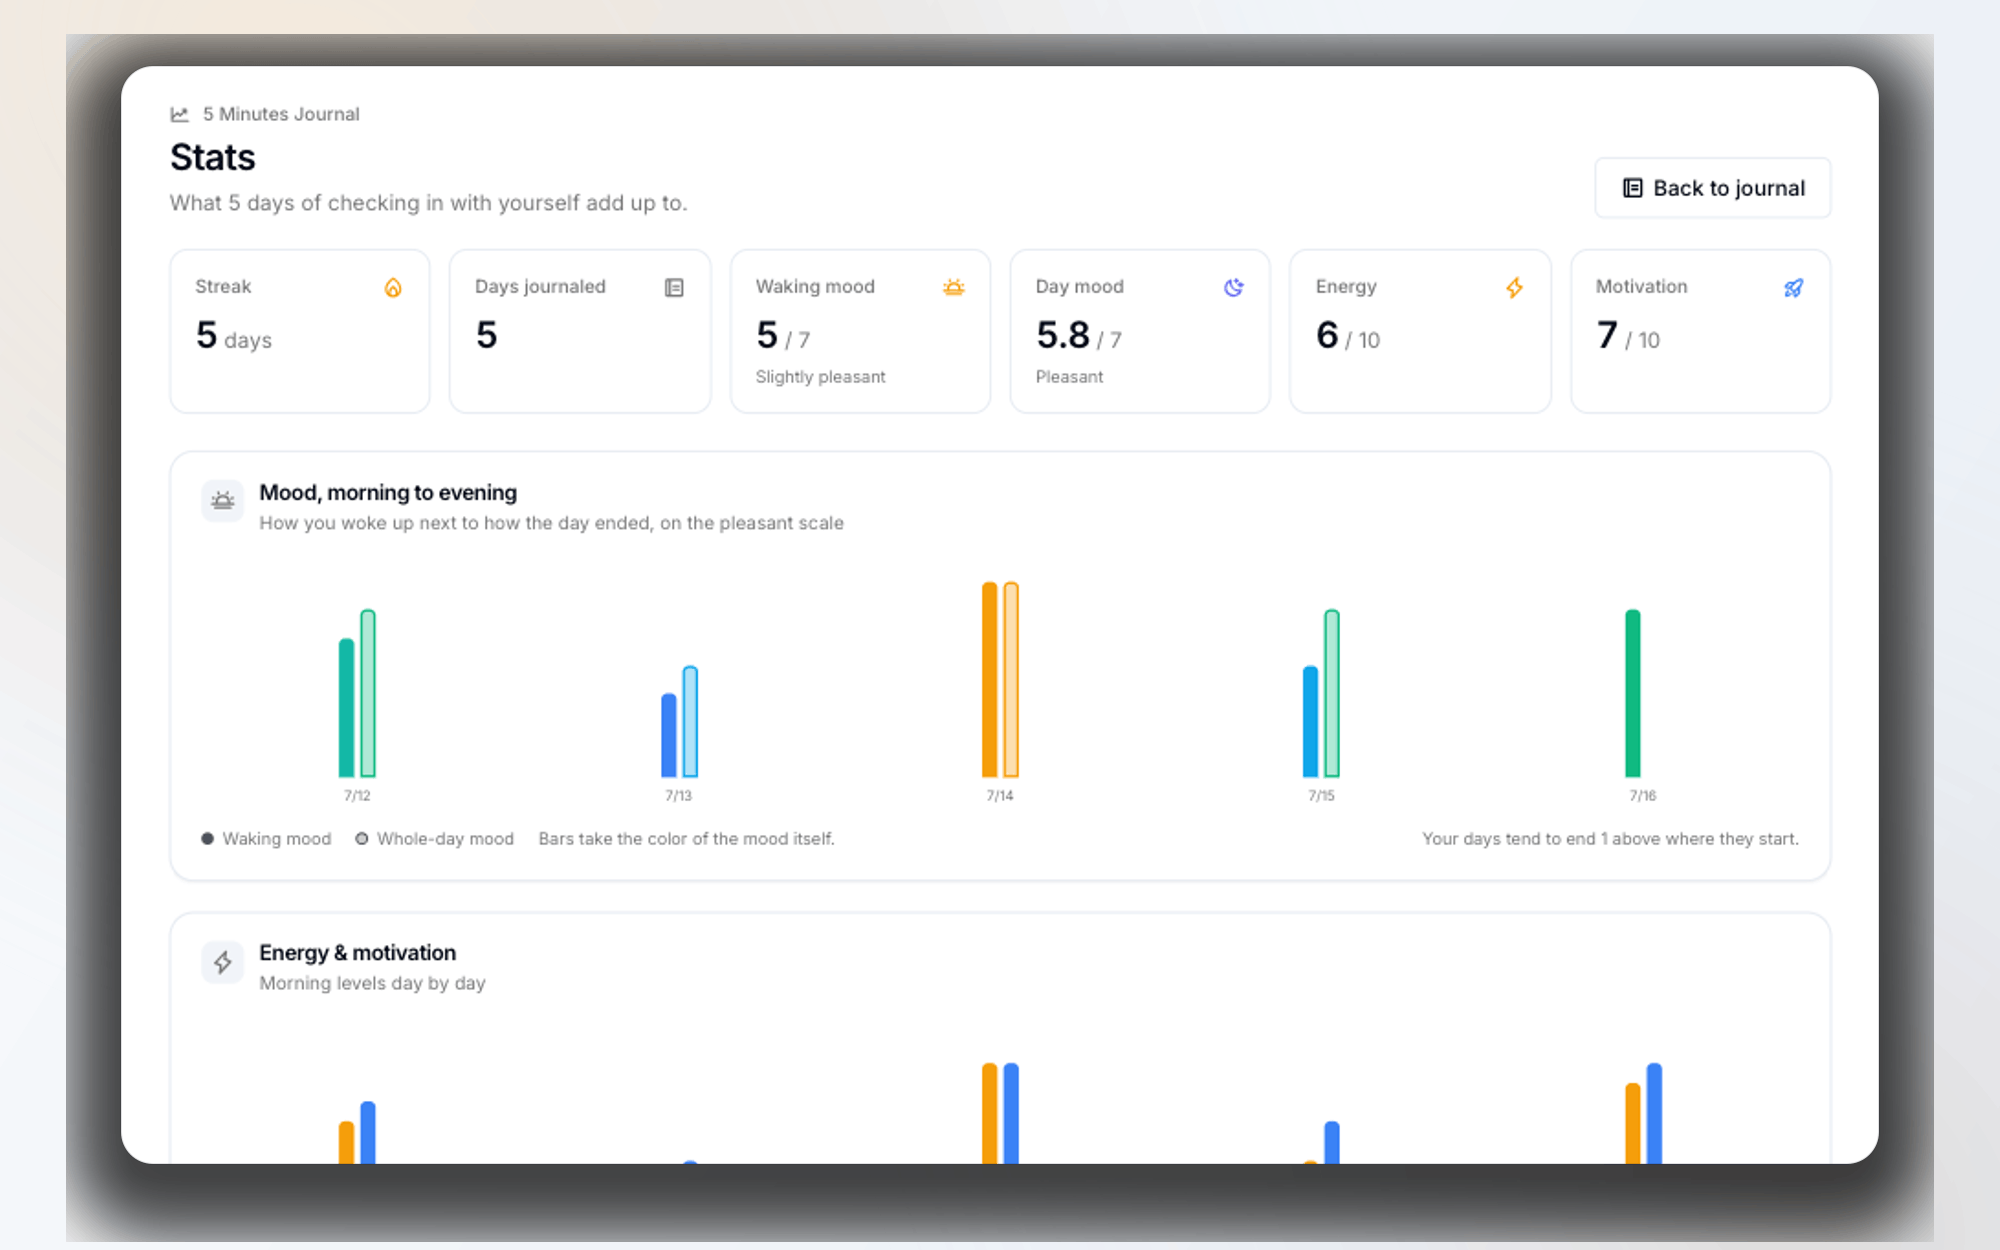
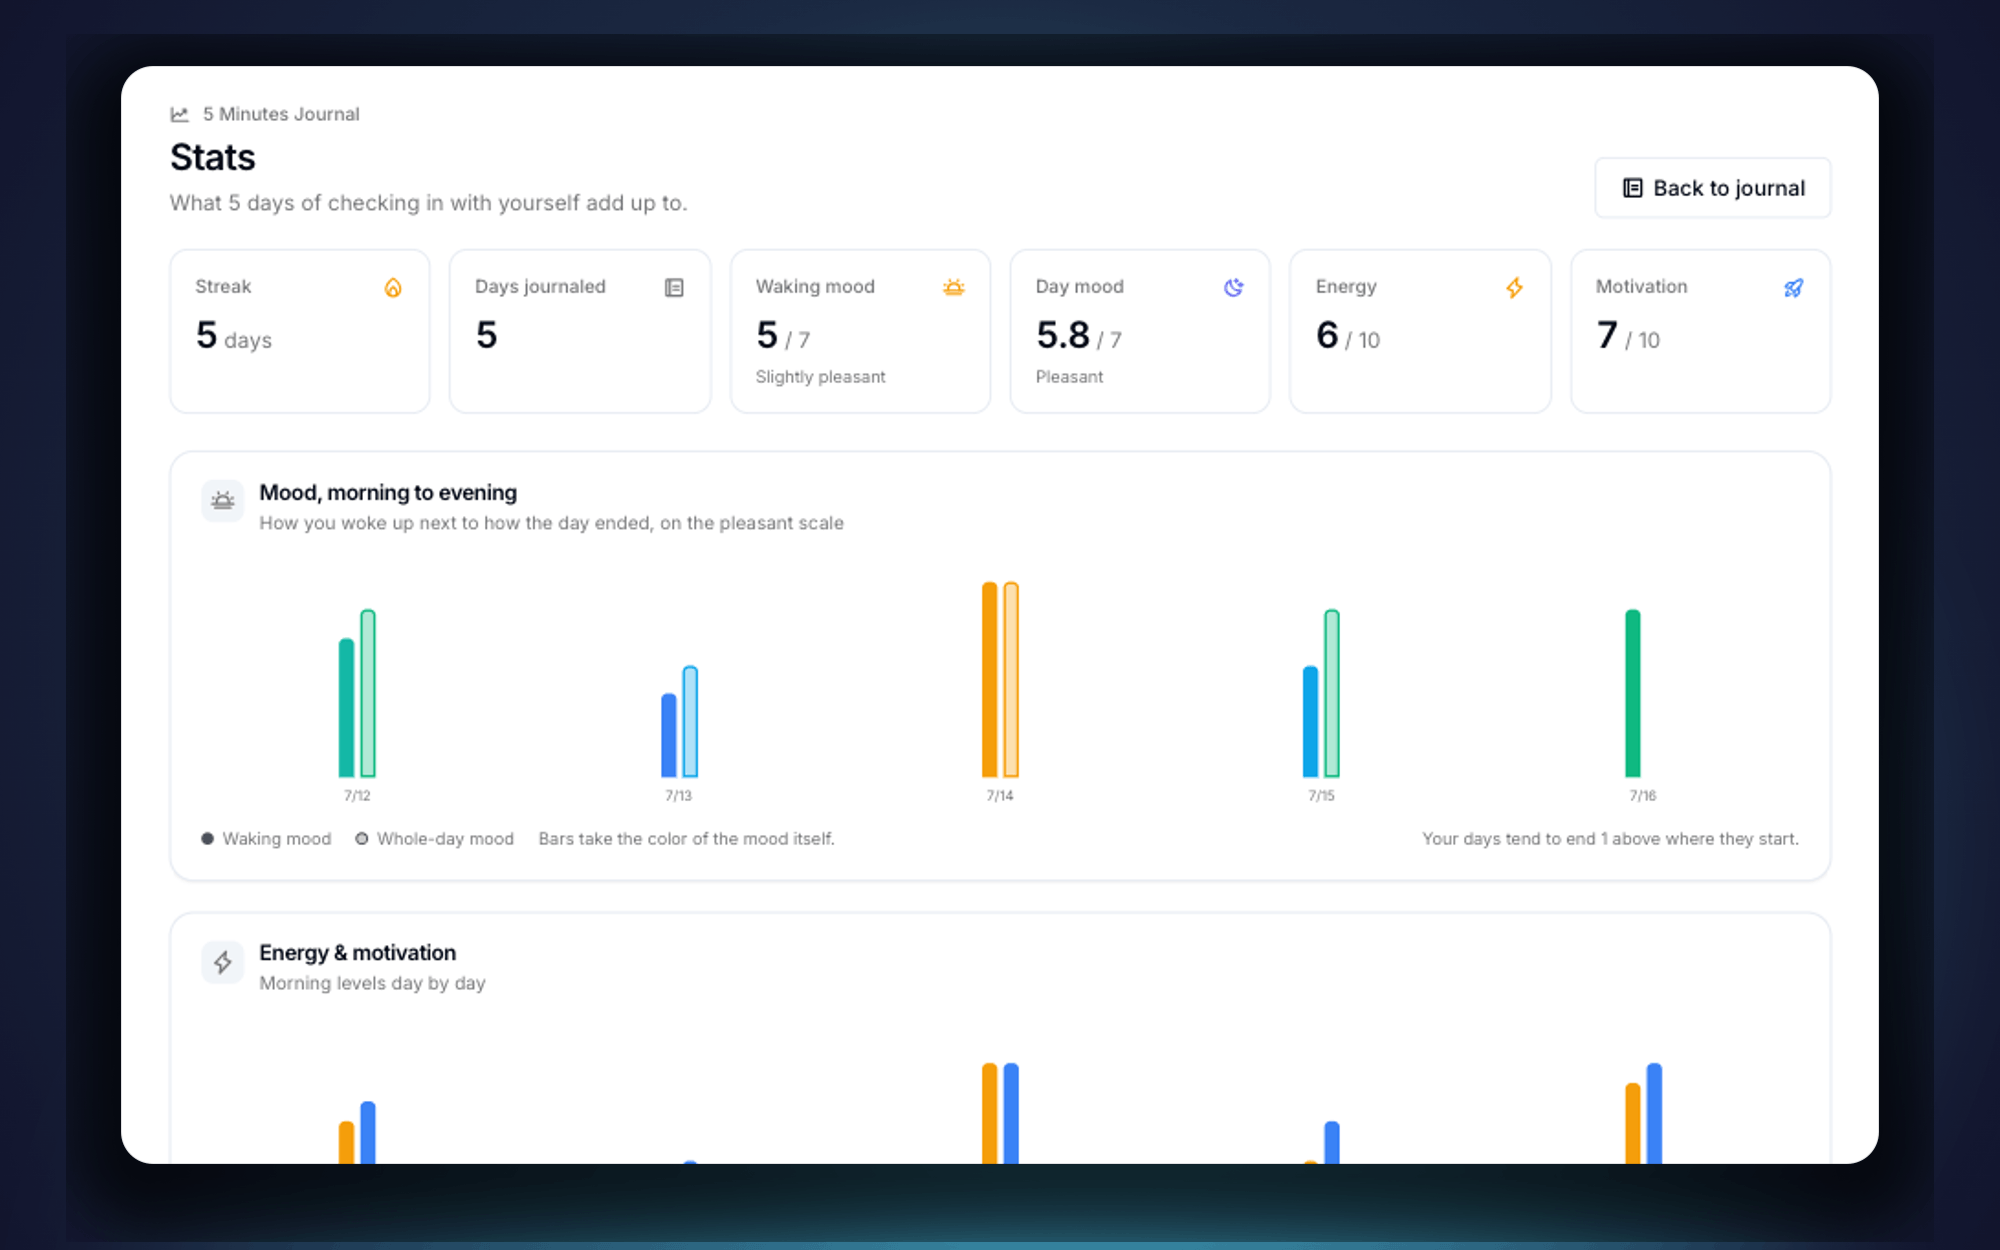
Submit 5 Minutes Journal to Notis App Store

Changed region(s): [[0.0, 0.0, 1.0, 1.0]]

diff --git a/apps/journal/notis.config.ts b/apps/journal/notis.config.ts
@@ -11,7 +11,7 @@ export default defineNotisApp({
   categories: ['Personal', 'Productivity'],
   tagline: 'Five intentional minutes with Notis, split between morning and evening.',
   versionNotes:
-    'Journal is now 5 Minutes Journal. This release adds a clearer daily overview, a focused evening reflection, long-term Stats, and dedicated light and dark Store screenshots.',
+    'Store screenshots now use the shared deep-blue Notis background in both light and dark presentation modes.',
   screenshots: [
     {
       path: 'metadata/screenshot-1.png',
